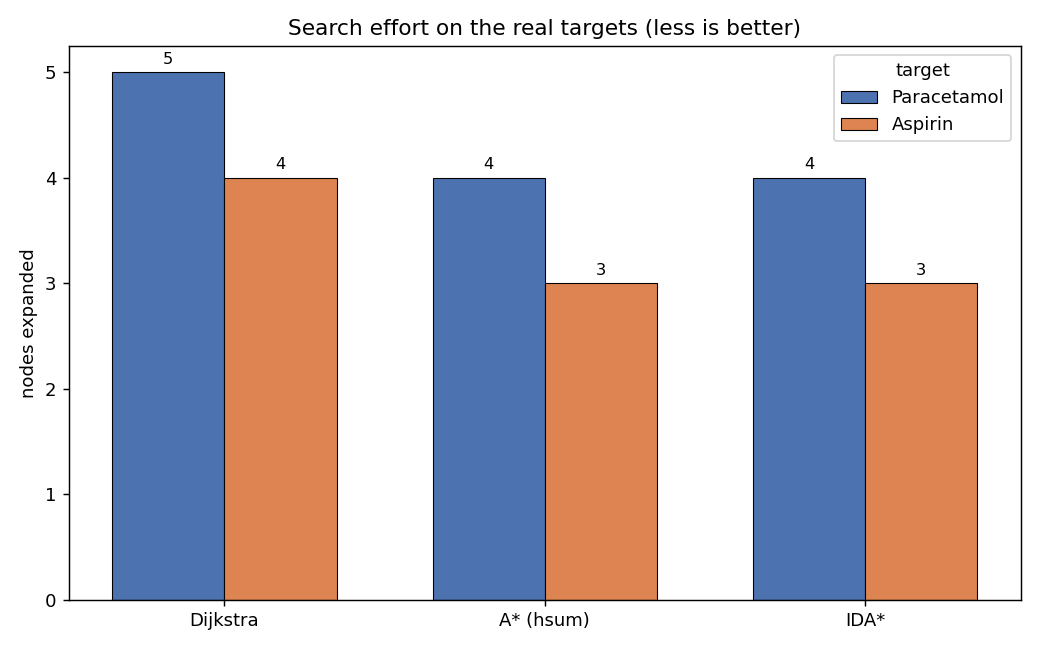
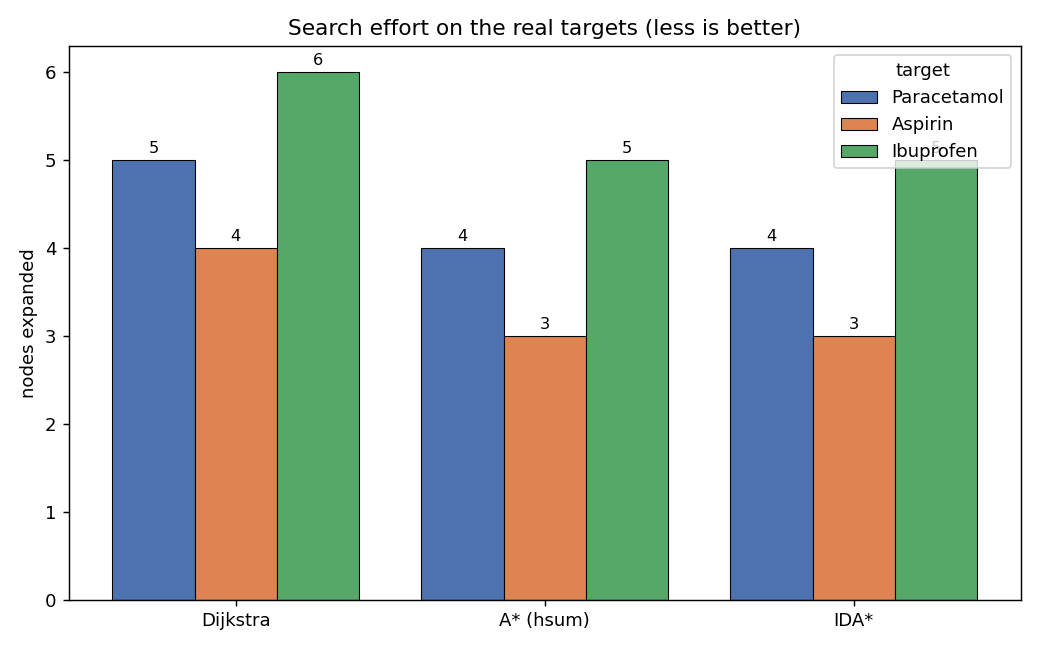
Add ibuprofen as a third, deeper target (4-step synthesis)

diff --git a/reactions.py b/reactions.py
@@ -28,16 +28,23 @@ class Reaction:
 NAMES = {
     "CC(=O)Nc1ccc(O)cc1": "Paracetamol (target)",
     "CC(=O)Oc1ccccc1C(=O)O": "Aspirin (target)",
+    "CC(C)Cc1ccc(C(C)C(=O)O)cc1": "Ibuprofen (target)",
     "Nc1ccc(O)cc1": "4-aminophenol",
     "O=[N+]([O-])c1ccc(O)cc1": "4-nitrophenol",
     "O=C(O)c1ccccc1O": "salicylic acid",
+    "CC(O)c1ccc(CC(C)C)cc1": "1-(4-isobutylphenyl)ethanol",
+    "CC(=O)c1ccc(CC(C)C)cc1": "4-isobutylacetophenone",
+    "CC(C)Cc1ccccc1": "isobutylbenzene",
     "Oc1ccccc1": "phenol",
     "CC(=O)OC(C)=O": "acetic anhydride",
     "CC(=O)O": "acetic acid",
     "O=[N+]([O-])c1ccccc1": "nitrobenzene",
     "c1ccccc1": "benzene",
+    "CC(C)CCl": "isobutyl chloride",
+    "CC(=O)Cl": "acetyl chloride",
     "DEADEND_A": "unreachable intermediate (trap)",
     "DEADEND_B": "unreachable intermediate (trap)",
+    "DEADEND_C": "unreachable intermediate (trap)",
 }
 
 
@@ -52,6 +59,8 @@ CATALOG: frozenset[str] = frozenset({
     "CC(=O)O",              # acetic acid
     "O=[N+]([O-])c1ccccc1", # nitrobenzene
     "c1ccccc1",             # benzene
+    "CC(C)CCl",             # isobutyl chloride
+    "CC(=O)Cl",             # acetyl chloride
 })
 
 
@@ -82,6 +91,20 @@ REACTIONS: list[Reaction] = [
              ("DEADEND_B", "CC(=O)O")),  # trap
     Reaction("Kolbe-Schmitt", "O=C(O)c1ccccc1O",
              ("Oc1ccccc1",)),
+
+    # ibuprofen (BHC route, read backwards, 4 steps deep)
+    Reaction("carbonylation", "CC(C)Cc1ccc(C(C)C(=O)O)cc1",
+             ("CC(O)c1ccc(CC(C)C)cc1",)),
+    Reaction("non-productive disconnection", "CC(C)Cc1ccc(C(C)C(=O)O)cc1",
+             ("DEADEND_C",)),  # trap
+    Reaction("carbonyl reduction", "CC(O)c1ccc(CC(C)C)cc1",
+             ("CC(=O)c1ccc(CC(C)C)cc1",)),
+    Reaction("Friedel-Crafts acylation (Ac2O)", "CC(=O)c1ccc(CC(C)C)cc1",
+             ("CC(C)Cc1ccccc1", "CC(=O)OC(C)=O")),
+    Reaction("Friedel-Crafts acylation (AcCl)", "CC(=O)c1ccc(CC(C)C)cc1",
+             ("CC(C)Cc1ccccc1", "CC(=O)Cl")),  # variant with acetyl chloride
+    Reaction("Friedel-Crafts alkylation", "CC(C)Cc1ccccc1",
+             ("c1ccccc1", "CC(C)CCl")),
 ]
 
 

diff --git a/figures.py b/figures.py
@@ -25,6 +25,7 @@ OUTDIR = os.path.join(os.path.dirname(__file__), "figures")
 TARGETS = {
     "Paracetamol": "CC(=O)Nc1ccc(O)cc1",
     "Aspirin":     "CC(=O)Oc1ccccc1C(=O)O",
+    "Ibuprofen":   "CC(C)Cc1ccc(C(C)C(=O)O)cc1",
 }
 
 
@@ -55,7 +56,7 @@ def figure_scaling():
 def figure_comparison():
     """Bars: nodes expanded per algorithm on the real targets."""
     algos = ["Dijkstra", "A* (hsum)", "IDA*"]
-    colors = {"Paracetamol": "#4c72b0", "Aspirin": "#dd8452"}
+    colors = {"Paracetamol": "#4c72b0", "Aspirin": "#dd8452", "Ibuprofen": "#55a868"}
     values = {label: [] for label in TARGETS}
 
     for label, smiles in TARGETS.items():
@@ -65,10 +66,11 @@ def figure_comparison():
         values[label] = [d.nodes_expanded, a.nodes_expanded, i.nodes_expanded]
 
     x = range(len(algos))
-    width = 0.35
+    n = len(values)
+    width = 0.8 / n
     plt.figure(figsize=(8, 5))
     for k, (label, vals) in enumerate(values.items()):
-        pos = [xi + (k - 0.5) * width for xi in x]
+        pos = [xi + (k - (n - 1) / 2) * width for xi in x]
         bars = plt.bar(pos, vals, width, label=label,
                        color=colors[label], edgecolor="black", linewidth=0.6)
         for b, v in zip(bars, vals):

diff --git a/main.py b/main.py
@@ -92,8 +92,9 @@ def main():
     validate_with_rdkit()
     print()
 
-    for target in ["CC(=O)Nc1ccc(O)cc1",       # paracetamol
-                   "CC(=O)Oc1ccccc1C(=O)O"]:   # aspirin
+    for target in ["CC(=O)Nc1ccc(O)cc1",              # paracetamol
+                   "CC(=O)Oc1ccccc1C(=O)O",           # aspirin
+                   "CC(C)Cc1ccc(C(C)C(=O)O)cc1"]:     # ibuprofen
         compare(target)
 
     print("For the plots and trees as images, run: python figures.py")

diff --git a/tests.py b/tests.py
@@ -14,8 +14,9 @@ from search import astar, ida_star
 TARGETS = {
     "Paracetamol": "CC(=O)Nc1ccc(O)cc1",
     "Aspirin":     "CC(=O)Oc1ccccc1C(=O)O",
+    "Ibuprofen":   "CC(C)Cc1ccc(C(C)C(=O)O)cc1",
 }
-EXPECTED_OPTIMAL = {"Paracetamol": 3, "Aspirin": 2}
+EXPECTED_OPTIMAL = {"Paracetamol": 3, "Aspirin": 2, "Ibuprofen": 4}
 
 
 def test_optimality():

diff --git a/README.md b/README.md
@@ -48,16 +48,22 @@ IDA\* with its threshold on f = g + h.
 
 ## What we get
 
-Two real targets, paracetamol and aspirin, with their classic syntheses.
+Three real targets with their classic syntheses: paracetamol (3 reactions),
+aspirin (2 reactions) and ibuprofen (4 reactions).
 
-The route found by A\* for paracetamol (3 reactions):
+The route found by A\* for paracetamol:
 
 ![Paracetamol synthesis tree](figures/tree_paracetamol.png)
 
-The same kind of result for aspirin (2 reactions) is in `figures/tree_aspirin.png`.
+Ibuprofen is the deepest one, its route has four steps (the BHC synthesis read
+backwards):
 
-On these real targets, A\* and IDA\* expand slightly fewer nodes than Dijkstra:
-the node saved is exactly the dead end, cut off by the heuristic.
+![Ibuprofen synthesis tree](figures/tree_ibuprofen.png)
+
+The aspirin route (2 reactions) is in `figures/tree_aspirin.png`.
+
+On these real targets, A\* and IDA\* expand fewer nodes than Dijkstra: the nodes
+saved are the dead ends, cut off by the heuristic.
 
 ![Comparison on the drugs](figures/comparison.png)
 